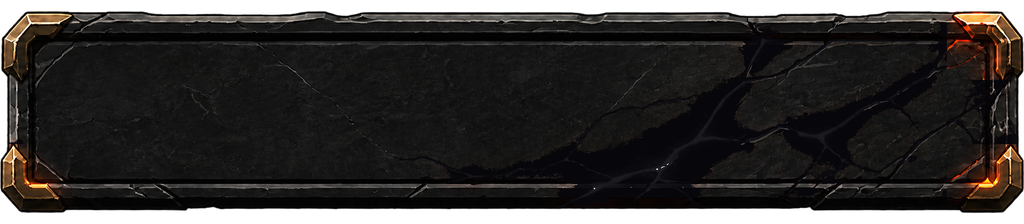
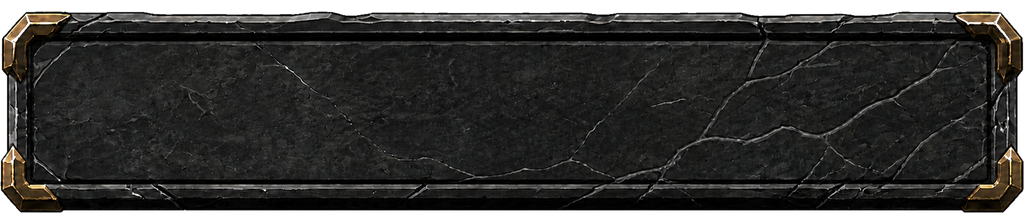
Restore stone texture in idle Umbra button

diff --git a/assets/art/ui/main_menu_umbra_sources/README.md b/assets/art/ui/main_menu_umbra_sources/README.md
@@ -11,9 +11,11 @@ Generation mode: built-in `image_gen` precise-object edits, 2026-08-29.
 
 Final prompt set:
 
-- Inactive slab direction: isolate one inactive concept-5 button, with a long
-  black faceted obsidian body, dark etched fractures, aged-brass corner armor,
-  no text or markers, and genuine transparency.
+- Inactive slab direction: edit the focused generated slab into an unlit state
+  while preserving its stone relief and fracture placement. Extinguish only
+  the molten emission, restore every warmed region to continuous textured
+  charcoal-grey stone, and forbid black masks, soot clouds, flat fill, or
+  missing-texture blotches.
 - Focused slab direction: preserve the same slab and add the concept-5 molten
   fracture network in the lower-right half, using pale-yellow cores, orange
   inner light, and a restrained ember-red subsurface halo.
@@ -24,6 +26,8 @@ Final prompt set:
   oversized cursors, labels, logos, watermarks, and opaque backgrounds.
 
 `focused_button_source.png` and `focus_marker_source.png` preserve the selected
-built-in outputs. The shipped `main_menu_umbra_*.png` files are alpha-cropped,
-resampled production sprites. The inactive button is an exact-geometry color
-derivative of the focused source so changing focus never shifts the silhouette.
+built-in source outputs. The corrected inactive generation is preserved in the
+shipped `main_menu_umbra_button_idle.png`; the production sprites are
+alpha-cleaned, cropped, and resampled. Focused and inactive slabs share the
+same production canvas and authored bounds so changing focus does not shift the
+menu layout.
